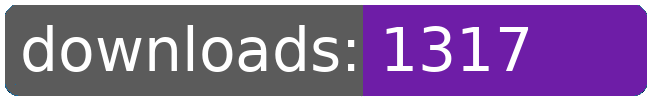
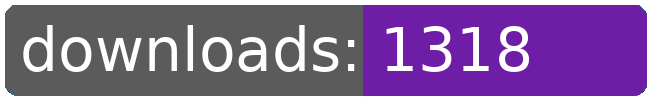
dl log written

Changed region(s): [[0.7692, 0.24, 0.8308, 0.72]]

diff --git a/README.md b/README.md
@@ -208,8 +208,8 @@
 		<td>1261</td>
 		<td>1284</td>
 		<td>1310</td>
-		<td>1317</td>
-		<td>+ 7</td>
+		<td>1318</td>
+		<td>+ 8</td>
 	</tr>
 	<tr>
 		<td>tributequarg</td>
@@ -274,8 +274,8 @@
 		<td></td>
 		<td></td>
 		<td></td>
-		<td>47590</td>
-		<td>142</td>
+		<td>47591</td>
+		<td>143</td>
 	</tr>
 </table>
 </sub></sup>
@@ -487,8 +487,8 @@
 		<td>1261</td>
 		<td>1284</td>
 		<td>1310</td>
-		<td>1317</td>
-		<td>+ 7</td>
+		<td>1318</td>
+		<td>+ 8</td>
 	</tr>
 	<tr>
 		<td>easier.ground.assault</td>
@@ -553,8 +553,8 @@
 		<td></td>
 		<td></td>
 		<td></td>
-		<td>47590</td>
-		<td>142</td>
+		<td>47591</td>
+		<td>143</td>
 	</tr>
 </table>
 </sub></sup>
@@ -562,7 +562,6 @@
 <table>
 	<tr>
 		<td> </td>
-		<td>2026-02-12</td>
 		<td>2026-02-13</td>
 		<td>2026-02-14</td>
 		<td>2026-02-15</td>
@@ -571,10 +570,10 @@
 		<td>2026-02-18</td>
 		<td>2026-02-19</td>
 		<td>2026-02-20</td>
+		<td>2026-02-21</td>
 	</tr>
 	<tr>
 		<td>page views</td>
-		<td>15</td>
 		<td>11</td>
 		<td>50</td>
 		<td>17</td>
@@ -583,10 +582,10 @@
 		<td>20</td>
 		<td>15</td>
 		<td>6</td>
+		<td>14</td>
 	</tr>
 	<tr>
 		<td>unique visitors</td>
-		<td>7</td>
 		<td>7</td>
 		<td>14</td>
 		<td>10</td>
@@ -595,6 +594,7 @@
 		<td>6</td>
 		<td>6</td>
 		<td>5</td>
+		<td>8</td>
 	</tr>
 </table>
 <br>
@@ -608,8 +608,8 @@
 	</tr>
 	<tr>
 		<td>2025-10-15</td>
-		<td>3985</td>
-		<td>1125</td>
+		<td>3999</td>
+		<td>1133</td>
 		<td>192</td>
 		<td>21</td>
 	</tr>
@@ -622,8 +622,8 @@
 	</tr>
 	<tr>
 		<td>130</td>
-		<td>30.65</td>
-		<td>8.65</td>
+		<td>30.76</td>
+		<td>8.72</td>
 		<td></td>
 		<td></td>
 	</tr>
